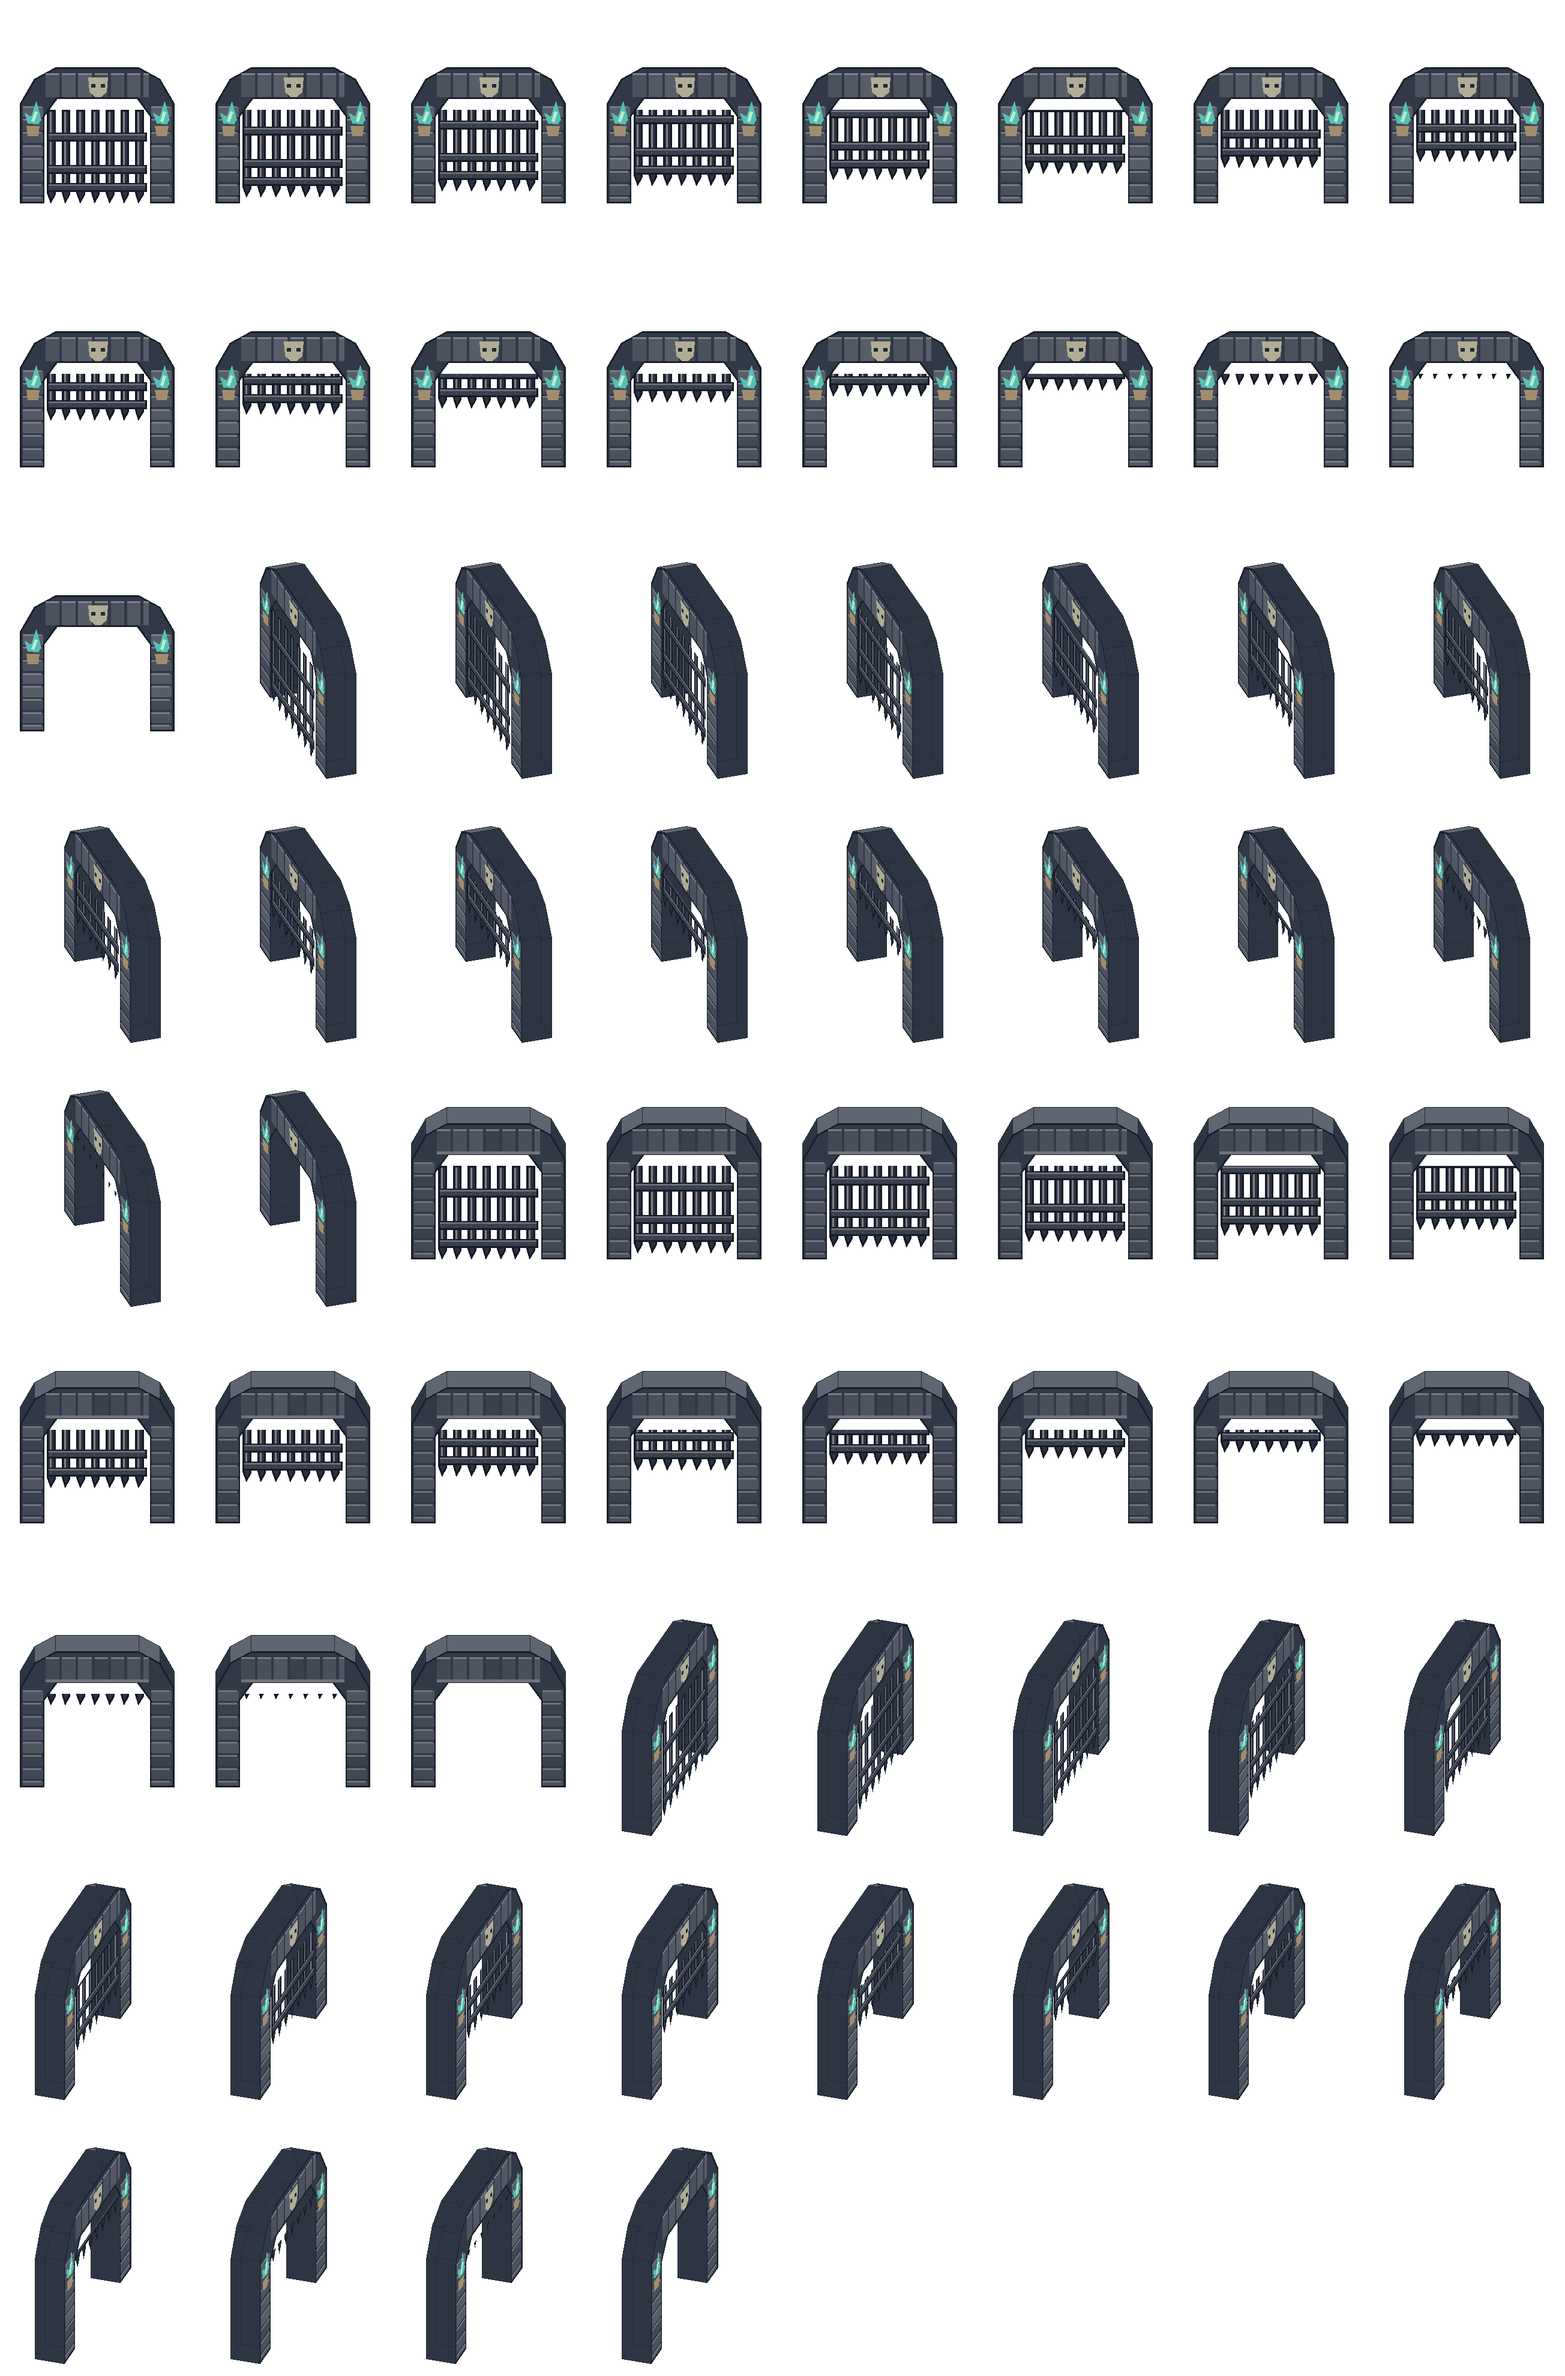
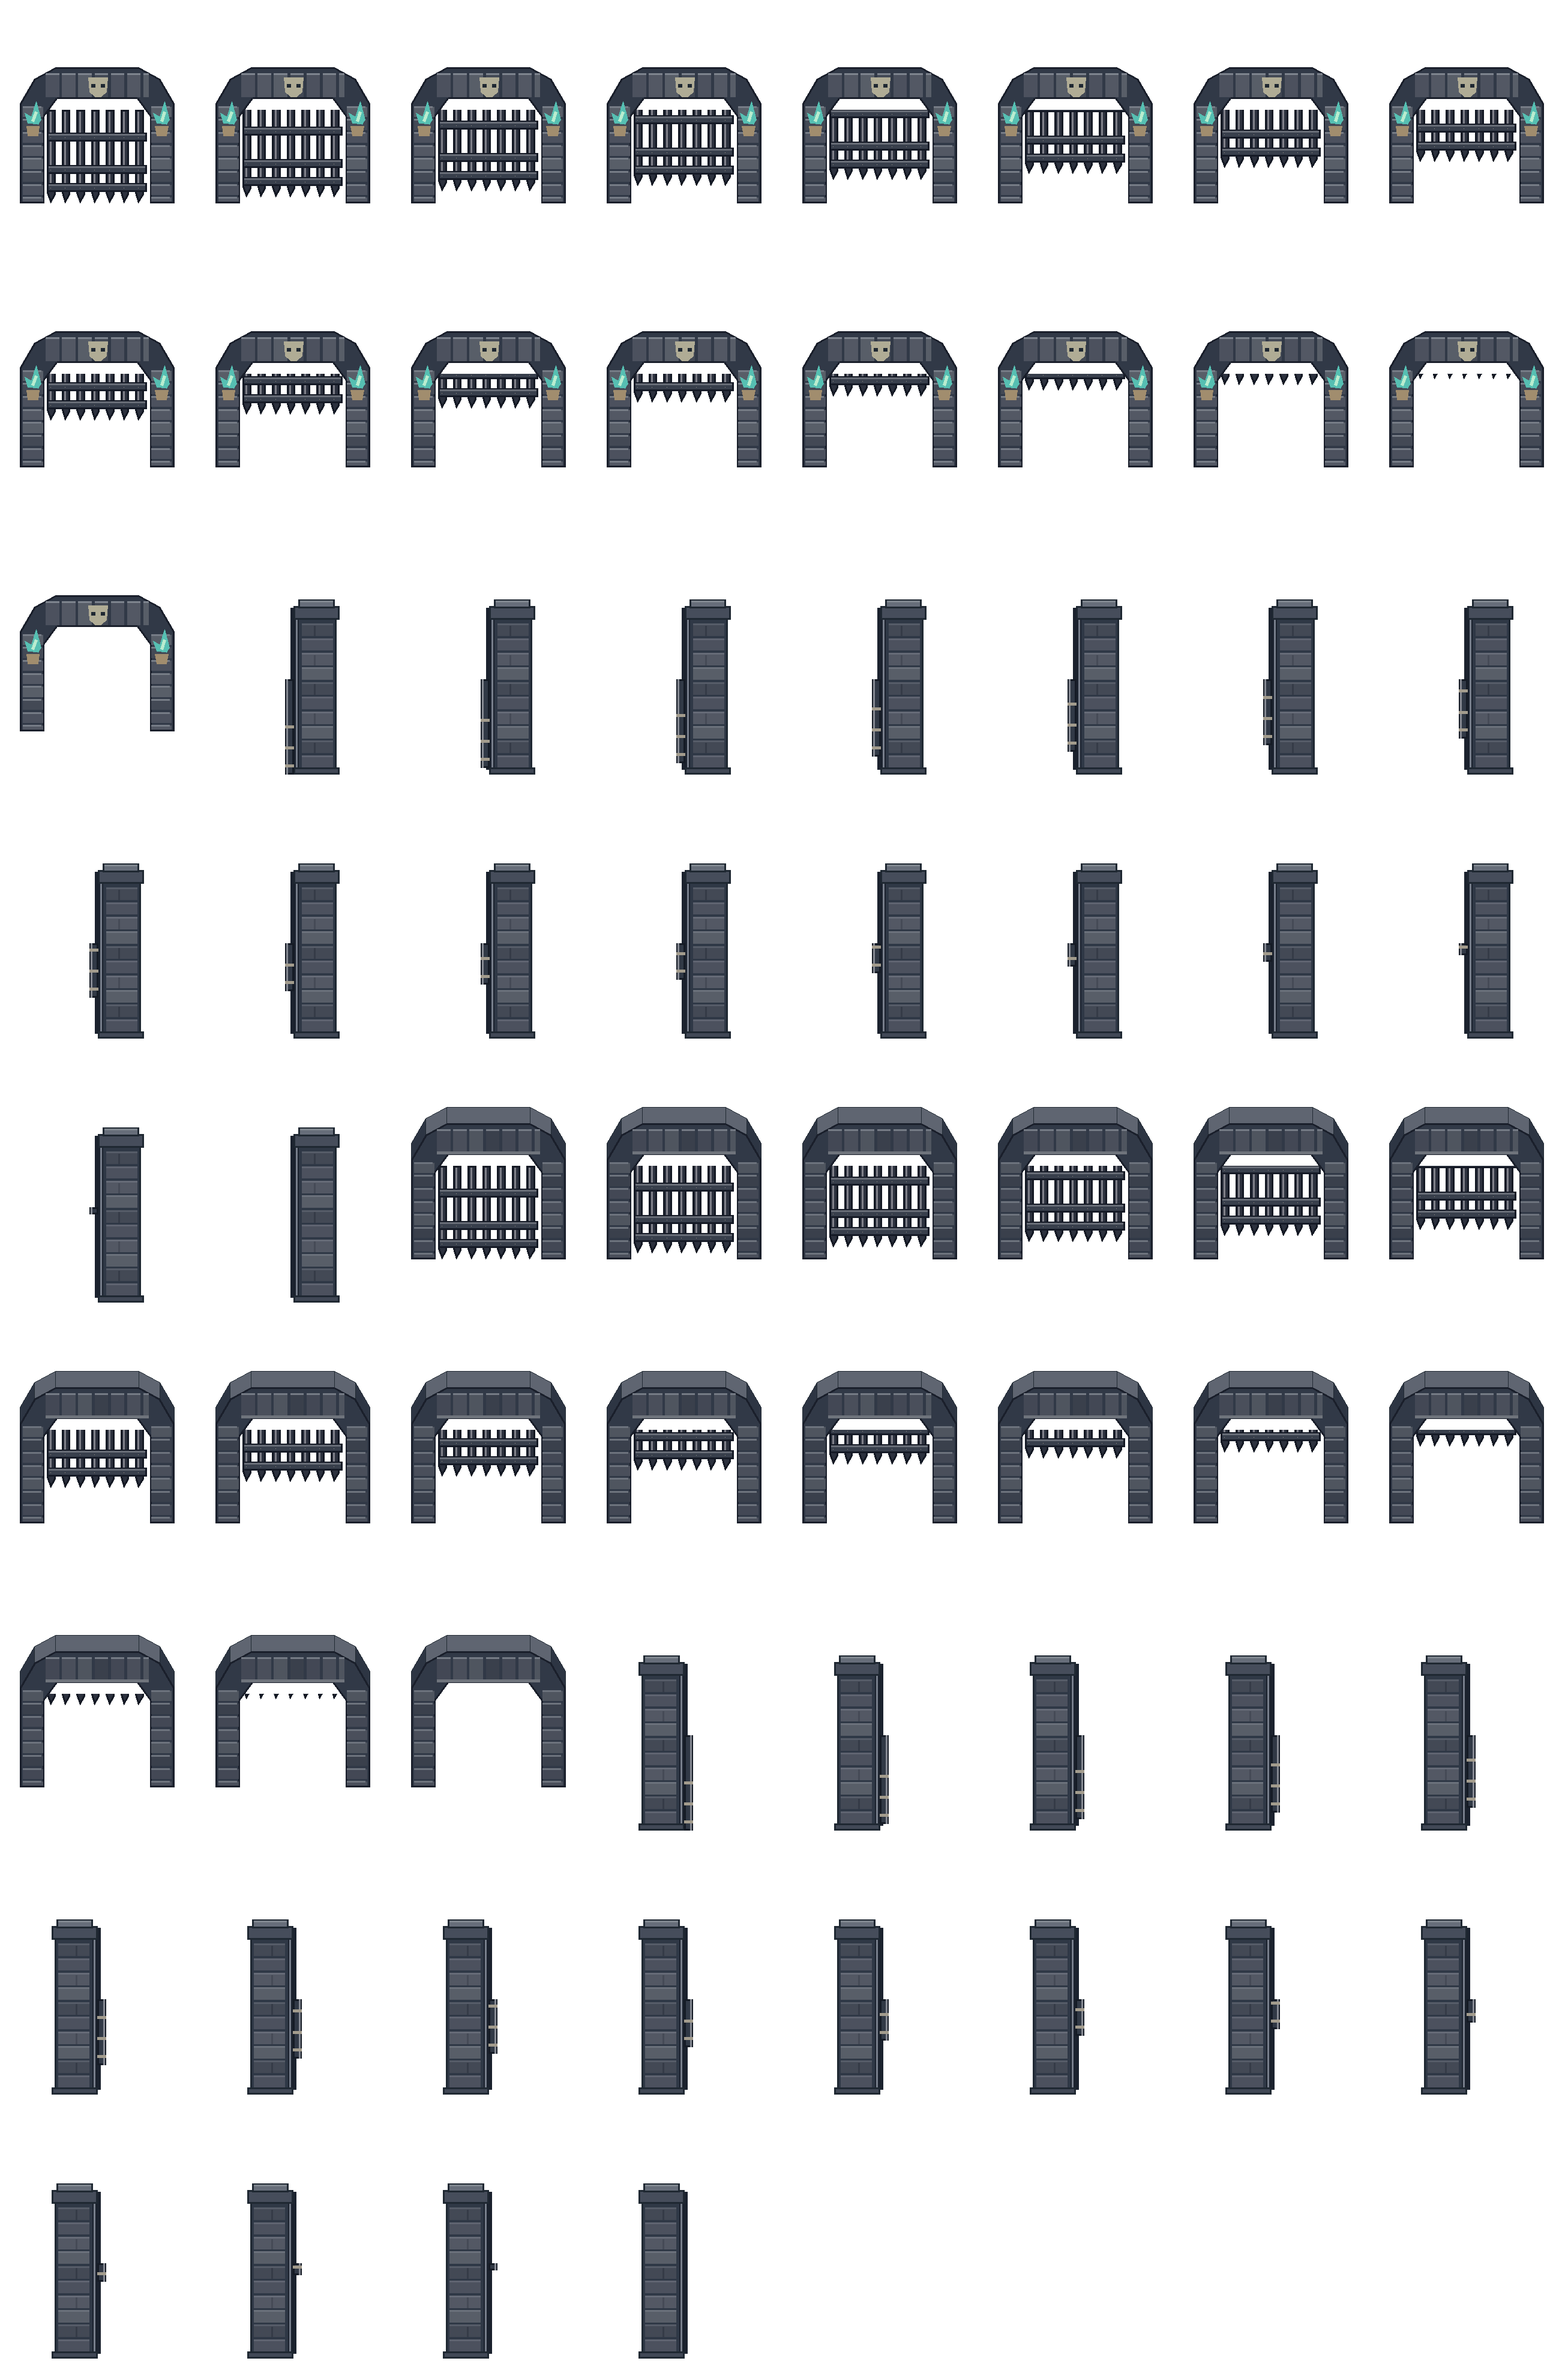
좌우 입구를 정측면으로 다시 그림

diff --git a/tools/build_crypt_art.py b/tools/build_crypt_art.py
@@ -231,30 +231,68 @@ def gate_frame(width, h, rear=False):
     return frame, [pixels(*point) for point in outline]
 
 
-def gate_view(cell, frame, outline, view):
-    # Face width, projected floor slope across the threshold, and the depth away from the arena.
-    squeeze, slope, depth_x, depth_y = view
-    depth_x, depth_y = pixels(depth_x, depth_y)
+def gate_view(cell, frame, outline, depth):
+    depth_y, = pixels(depth)
     cx, cy = cell[0] / 2, cell[1] - ART['gate_anchor_from_bottom_px']
 
     def project_face(point):
         x, y = point
-        horizontal = x - frame.width / 2
-        return round(cx + horizontal * squeeze), round(cy + y - frame.height + horizontal * slope)
+        return round(cx + x - frame.width / 2), round(cy + y - frame.height)
 
     structure = Image.new('RGBA', cell)
-    if depth_x or depth_y:
+    if depth_y:
         stone = ImageDraw.Draw(structure)
         corners = [project_face(point) for point in outline]
         for first, second in zip(corners, corners[1:] + corners[:1]):
             x, y = first
             u, v = second
             color = (95, 101, 113) if abs(u - x) > abs(v - y) else (45, 53, 67)
-            stone.polygon((first, second, (u + depth_x, v + depth_y), (x + depth_x, y + depth_y)),
+            stone.polygon((first, second, (u, v + depth_y), (x, y + depth_y)),
                           fill=color, outline=(33, 42, 51))
-    inverse = (1 / squeeze, 0, frame.width / 2 - cx / squeeze,
-               -slope / squeeze, 1, frame.height - cy + slope * cx / squeeze)
+    inverse = (1, 0, frame.width / 2 - cx, 0, 1, frame.height - cy)
     return structure, inverse
+
+
+def side_gate_frames(cell, height, frames):
+    """Right-hand arch in profile, with the opening facing left across the bridge."""
+    x = cell[0] / (2 * DENSITY)
+    ground = (cell[1] - ART['gate_anchor_from_bottom_px']) / DENSITY
+    footing = round(ground + BRIDGE * PITCH)
+    track_top = footing - height
+    roof = round(ground - height - 23)
+    masonry = Image.new('RGBA', cell)
+    stone = PixelDraw(masonry)
+
+    # A straight stone housing conceals the face of the arch and the far post.
+    stone.rectangle((x + 2, roof + 5, x + 26, footing), fill=(47, 56, 70), outline=JOINT)
+    for index, y in enumerate(range(roof + 15, footing - 4, 9)):
+        color = BRICK[index % len(BRICK)]
+        stone.rectangle((x + 5, y, x + 24, min(y + 7, footing - 4)), fill=color)
+        stone.line((x + 5, y, x + 24, y), fill=shade(color, 19))
+        if index % 2 == 0:
+            stone.line((x + 13, y + 1, x + 13, min(y + 7, footing - 4)), fill=shade(color, -14))
+
+    stone.rectangle((x - 2, roof + 5, x + 3, footing - 3), fill=(27, 34, 46))
+    stone.line((x + 2, roof + 6, x + 2, footing - 4), fill=(119, 126, 139))
+    stone.rectangle((x, roof + 4, x + 28, roof + 12), fill=(70, 77, 91), outline=JOINT)
+    stone.rectangle((x + 3, roof, x + 25, roof + 5), fill=(103, 110, 122), outline=JOINT)
+    stone.line((x + 4, roof + 1, x + 24, roof + 1), fill=(127, 134, 143))
+    stone.rectangle((x, footing - 4, x + 28, footing), fill=(65, 72, 86), outline=JOINT)
+
+    output = []
+    for phase in range(frames):
+        frame = masonry.copy()
+        drop = height - round(height * phase / (frames - 1))
+        if drop:
+            iron = PixelDraw(frame)
+            tip = track_top + drop
+            iron.rectangle((x - 5, track_top, x, tip), fill=(49, 57, 70), outline=(21, 27, 37))
+            iron.line((x - 4, track_top, x - 4, tip), fill=(133, 137, 146))
+            for y in (tip - 5, tip - 16, tip - 29):
+                if y > track_top:
+                    iron.line((x - 5, y, x, y), fill=(163, 156, 141), width=2)
+        output.append(frame)
+    return output
 
 
 def gate_images():
@@ -265,17 +303,23 @@ def gate_images():
     cell = pixels(120, 162)
     rows = ceil(len(WAVES['gates']) * frames / columns)
     atlas = Image.new('RGBA', (cell[0] * columns, cell[1] * rows))
-    views = {'north': (1, 0, 0, 0), 'east': (.43, .62, 18, -3),
-             'south': (1, 0, 0, -10), 'west': (.43, -.62, -18, -3)}
+    profile = side_gate_frames(cell, height, frames)
     for side, gate in enumerate(WAVES['gates']):
         direction = gate['id']
+        if gate['x_ratio']:
+            for phase, view in enumerate(profile):
+                if direction == 'west':
+                    view = view.transpose(Image.Transpose.FLIP_LEFT_RIGHT)
+                row, column = divmod(side * frames + phase, columns)
+                atlas.paste(view, (column * cell[0], row * cell[1]))
+            continue
         frame, outline = gate_frame(width, height, rear=direction == 'south')
-        structure, inverse = gate_view(cell, frame, outline, views[direction])
+        structure, inverse = gate_view(cell, frame, outline, -10 if direction == 'south' else 0)
         for phase in range(frames):
             face = Image.new('RGBA', frame.size)
             lift = round(bars.height * phase / (frames - 1))
             if lift < bars.height:
-                # Cut off the ironwork as it rises behind the lintel, then turn the whole arch.
+                # Cut off the ironwork as it rises behind the lintel.
                 remaining = bars.crop((0, lift, bars.width, bars.height))
                 face.alpha_composite(remaining, ((frame.width - bars.width) // 2,
                                                   frame.height - bars.height))
